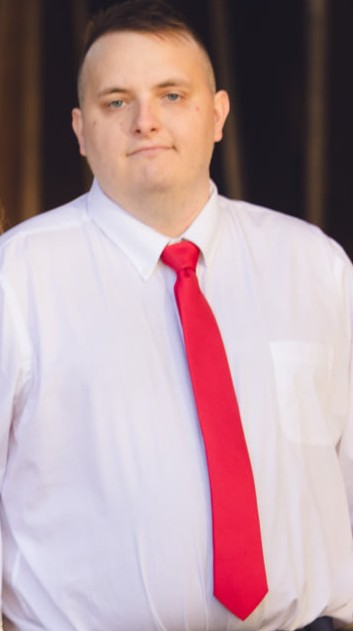
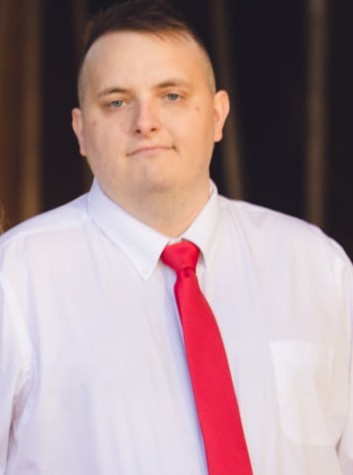
updated profile photo and fixed css code

diff --git a/index.html b/index.html
@@ -23,9 +23,9 @@
         <article>
                 <h1 id="header">Travis Stockelman | Full-Stack Development and Data Analysis</h1>
                 <h2 class="tech-stack">HTML | CSS | JavaScript | Python | SQL | Bash Scripting</h2>
-                <section id="introduction">
+            <section id="introduction">
                 <img src="https://github.com/TStockelman-Dev/TStockelman-Dev.github.io/blob/main/assets/Travis%20Stockelman%20Photo.jpg?raw=true" alt="Travis Stockelman" class="profile-photo">
-                <p class="welcome">Welcome to my portfolio! My name is Travis Stockelman, and I am looking forward to providing high-quality software development and data analysis to meet your needs! Whether you are looking for someone to craft a custom website, provide a software solution, or provide data analysis, I am here to help! This website is currently still under construction, but until it is completed, you may contact me directly about your needs and the solutions I can offer by emailing me at <a href="mailto:tstockelman.dev@gmail.com">tstockelman.dev@gmail.com</a>. Thank you for your time and consideration.</p>
+                <p class="welcome">Welcome to my portfolio! My name is Travis Stockelman, and I am looking forward to providing high-quality software solutions, web development, and data analysis services to meet your needs. I am a passionate developer with a strong foundation in both frontend and backend technologies, dedicated to creating efficient and scalable solutions. Through my work with the Civil Air Patrol, various churches, and non-profits from 4 different states, I have more than 10 years of experience providing structured leadership, training, education, and mission support to communities and organizations. During this time, I have led teams, mentored future leaders, and helped organize programs focused on long-term impact in the communities and organizations I have served. I bring this same mindset, focus, and level of dedication to my work as a developer.</p>
             </section>
         </article>
     </main>

diff --git a/css/styles.css b/css/styles.css
@@ -146,14 +146,9 @@ h1 {
     justify-items: center;
     padding-top: 48px;
     width: auto;
-    max-width: 300px;
+    max-width: 400px;
     height: auto;
     max-height: 80%;
     padding-left: 20px;
     padding-right: 48px;
-}
-
-.welcome a {
-    display: flex;
-    flex: wrap;
 }
